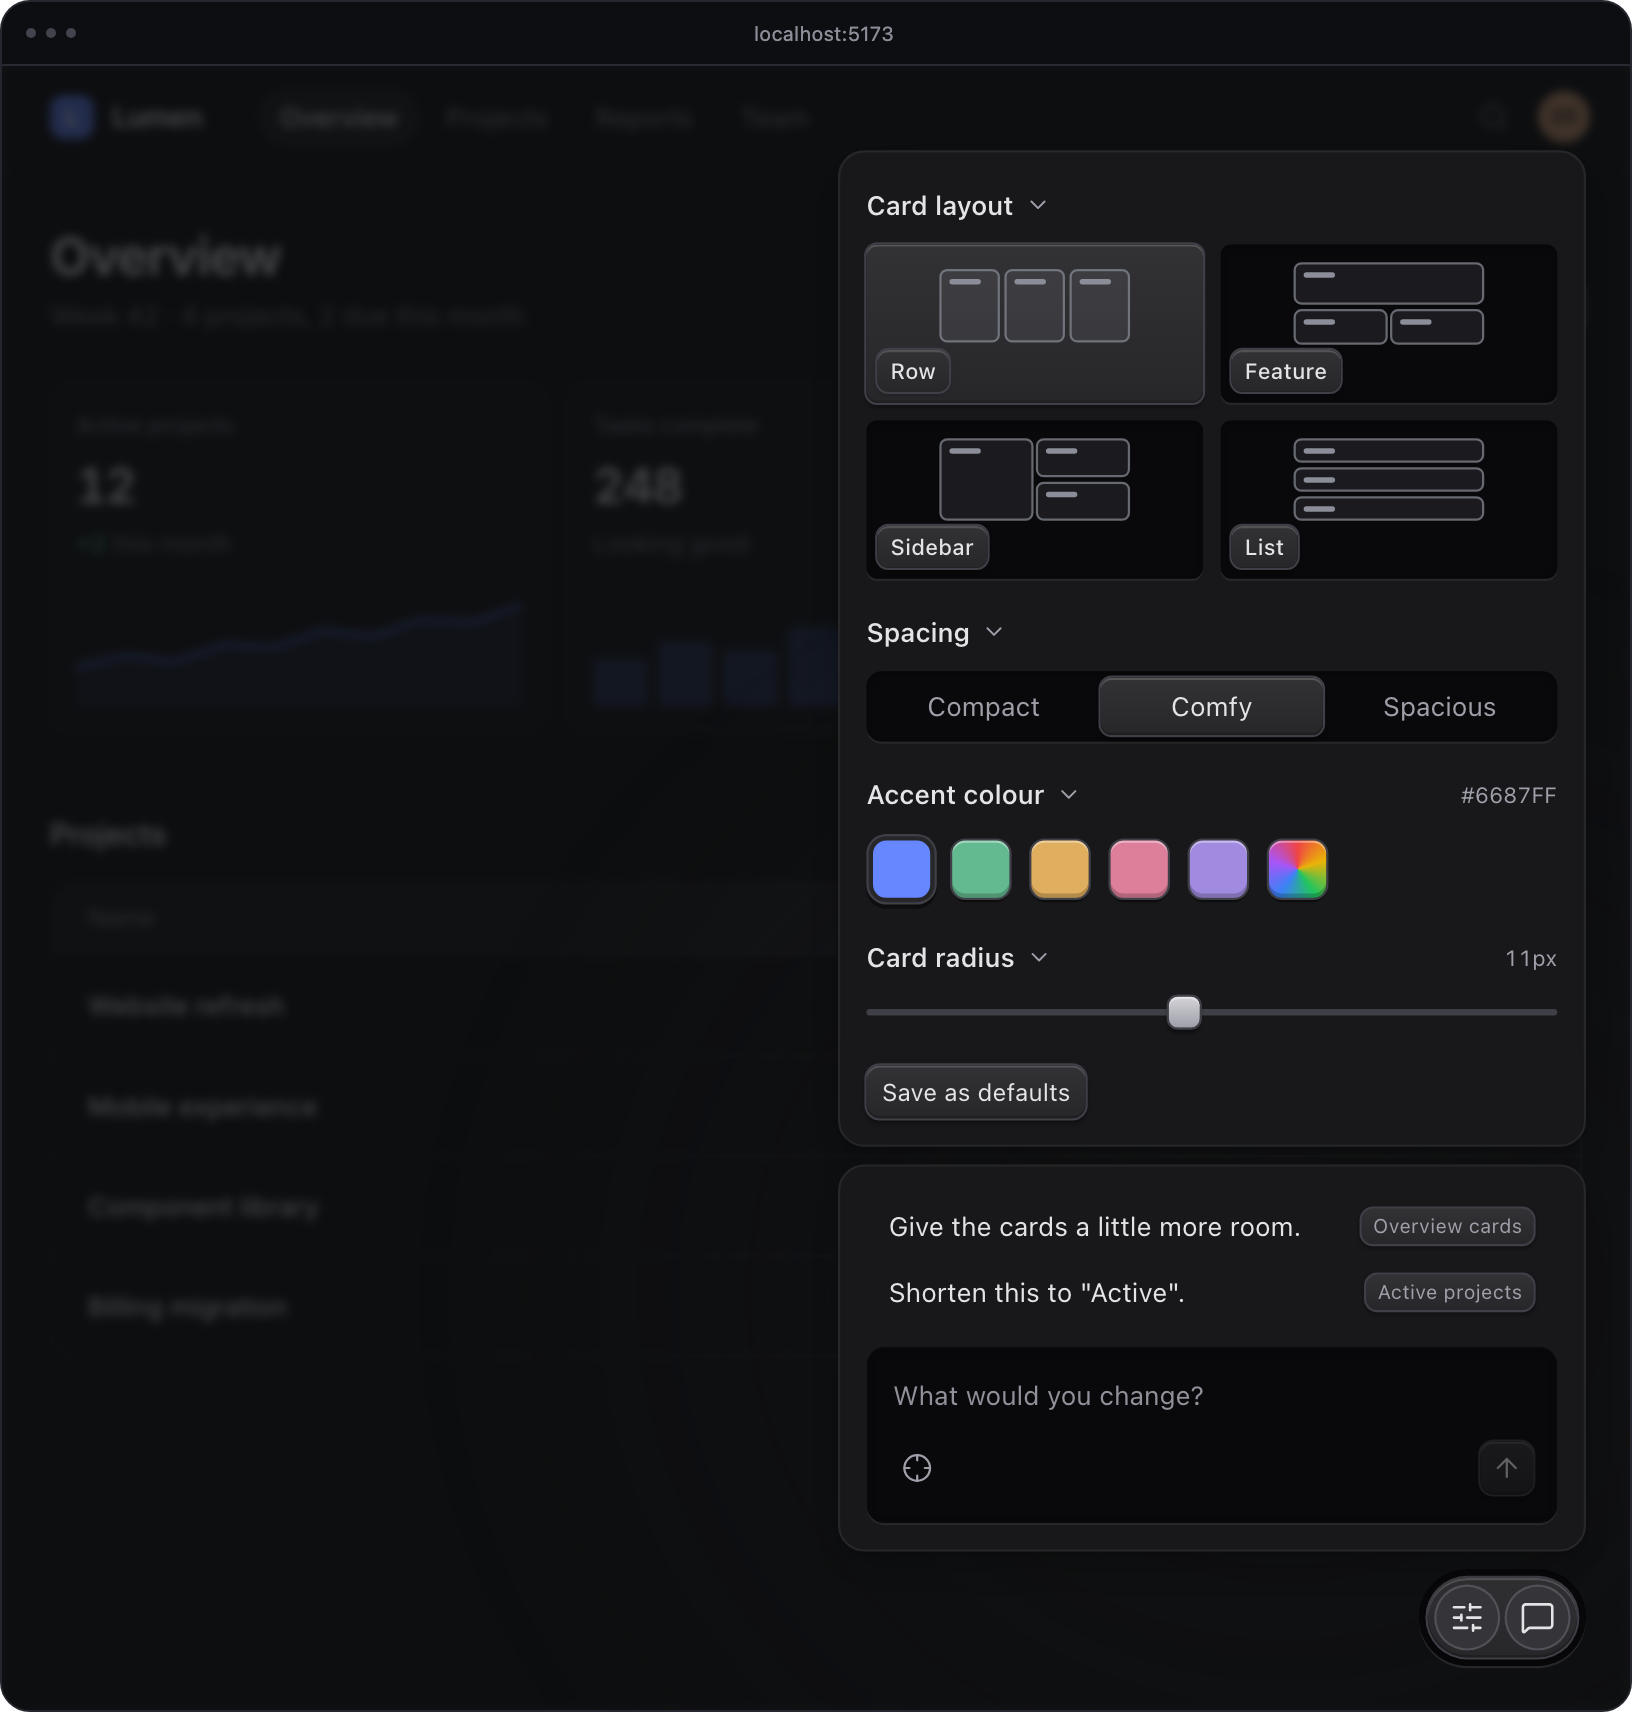
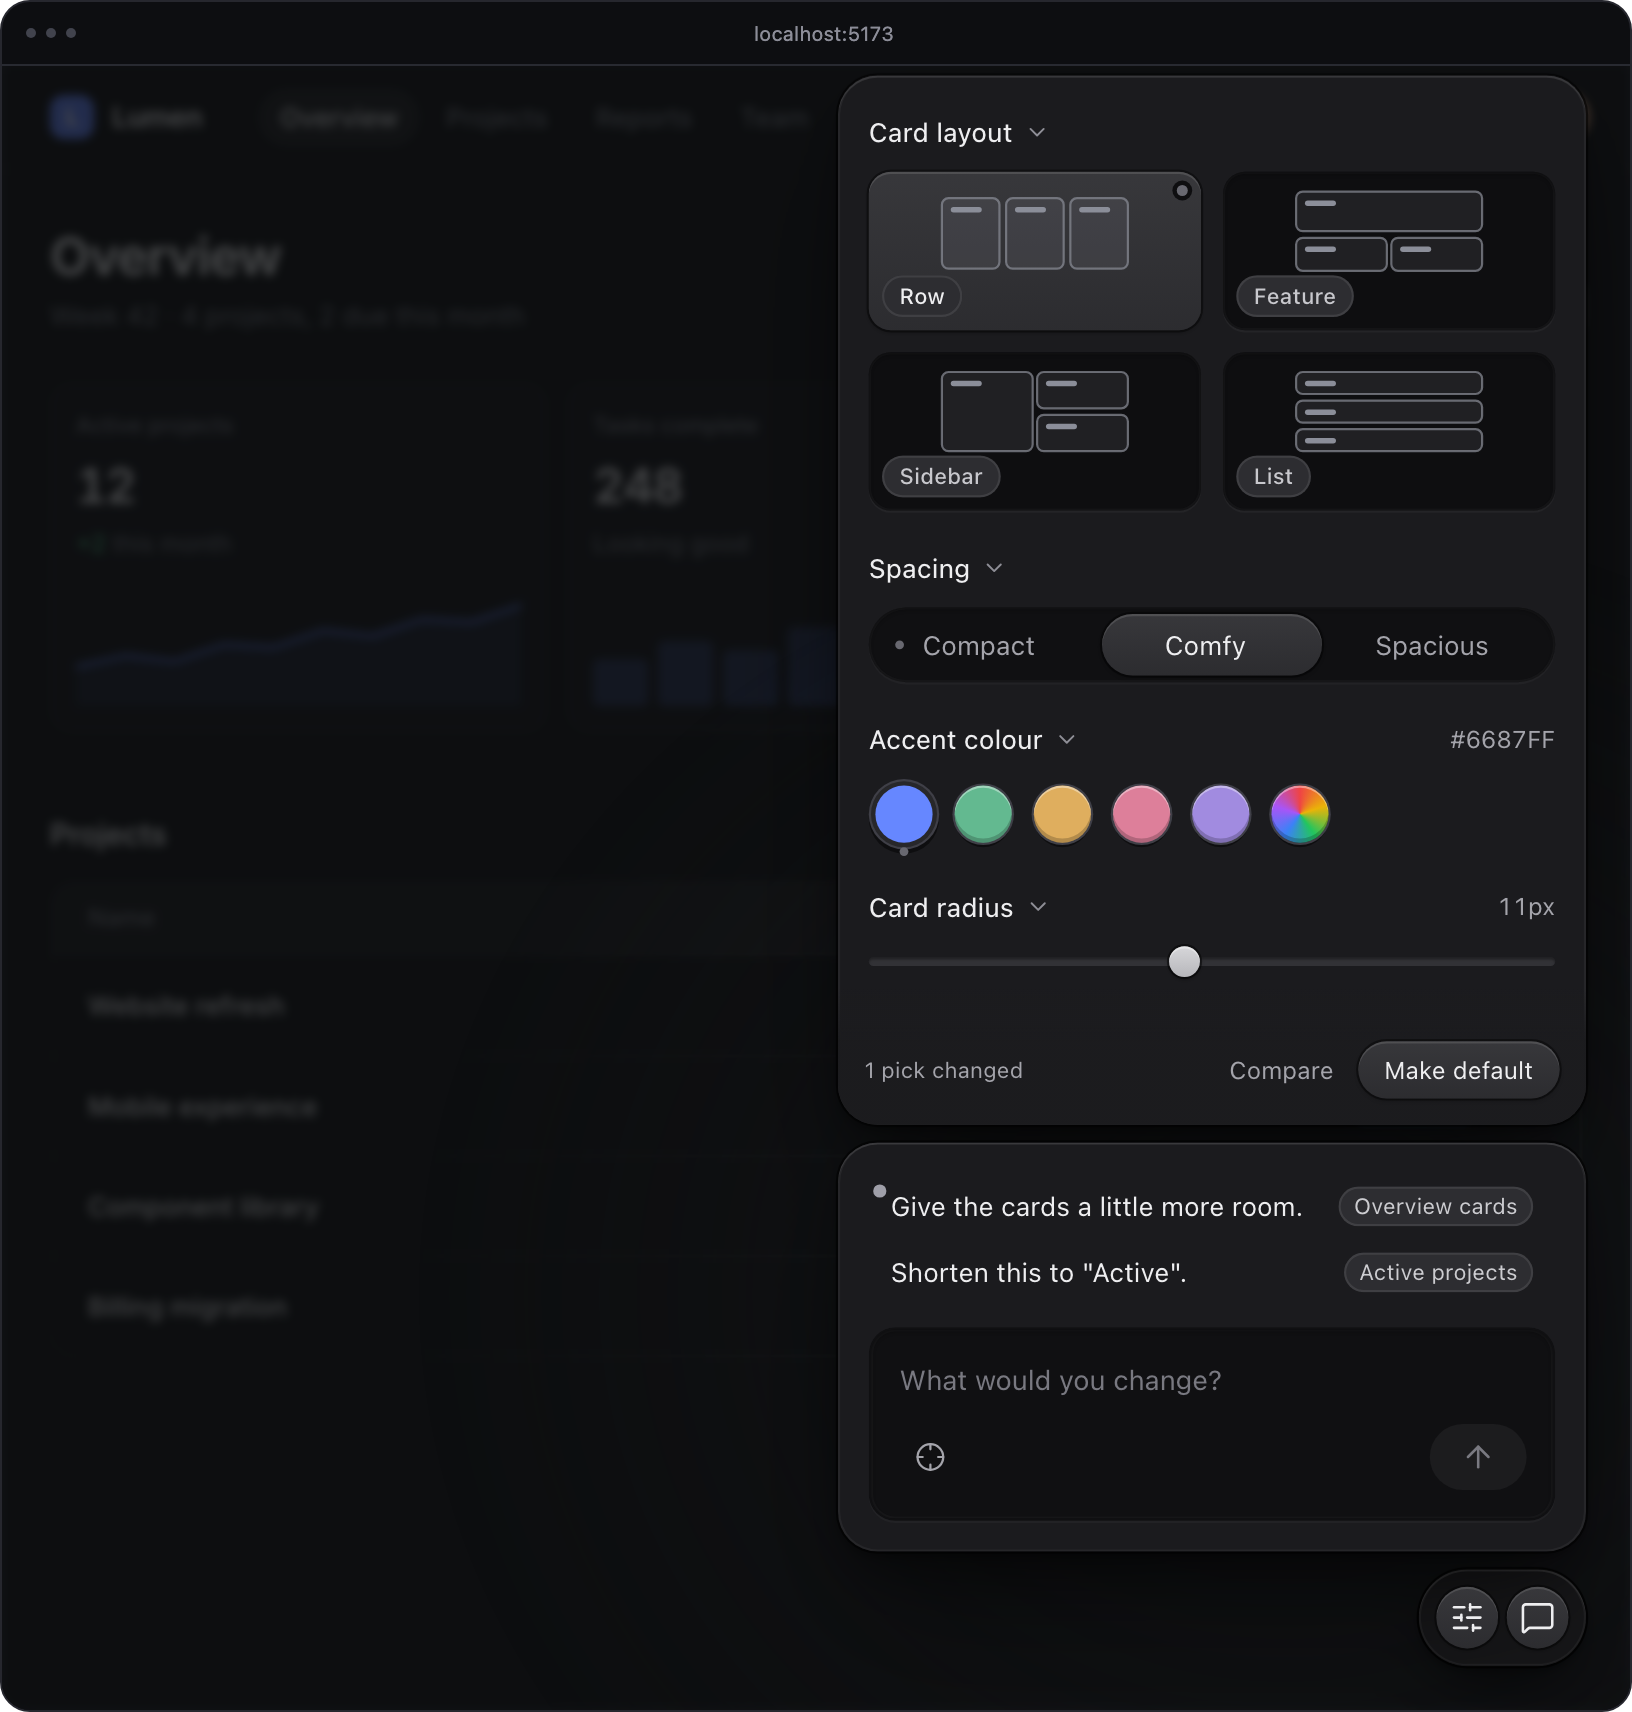
README visuals: re-capture the image and loop on the current design
The scripted scenes had drifted from the panel: the rail buttons' labels
now carry counts, Feedback opens in select mode by itself, the accent
colour sits below the fold in its own section, and the Sidebar layout
puts the second card under the panel.

diff --git a/examples/demo/demo.tsx b/examples/demo/demo.tsx
@@ -435,7 +435,9 @@ function Panel({ theme }: { theme: IsotoneTheme }) {
     if (screenshot) {
       const style = document.createElement('style');
       // Select mode draws fixed outlines and a hint, which a scaled root would displace.
-      style.textContent = `${scene === 'pin' ? '' : '.isotone-root { transform: scale(1.1); transform-origin: bottom right; right: 22px; bottom: 22px; }'} .isotone-textarea { caret-color: transparent; }`;
+      // The defaults bar floats over the last selector until the list is scrolled; the still image shows the
+      // list as it sits when scrolled clear of the bar.
+      style.textContent = `${scene === 'pin' ? '' : '.isotone-root { transform: scale(1.1); transform-origin: bottom right; right: 22px; bottom: 22px; }'} .isotone-textarea { caret-color: transparent; } .isotone-vars[data-saving='true'] > .isotone-vars-body { padding-bottom: var(--iso-save-bar-h); }`;
       shadow.append(style);
     }
     const target = document.createElement('div');
@@ -475,8 +477,8 @@ function Panel({ theme }: { theme: IsotoneTheme }) {
       window.dispatchEvent(new KeyboardEvent('keydown', { key: 'Shift', code: 'ShiftLeft' }));
       launcher.click();
       frame = requestAnimationFrame(() => {
-        const feedback = shadow?.querySelector<HTMLButtonElement>('[aria-label="Feedback"]');
-        const variants = shadow?.querySelector<HTMLButtonElement>('[aria-label="Variants"]');
+        const feedback = shadow?.querySelector<HTMLButtonElement>('.isotone-rail-button[aria-label^="Feedback"]');
+        const variants = shadow?.querySelector<HTMLButtonElement>('.isotone-rail-button[aria-label^="Variants"]');
         if (feedback?.getAttribute('aria-expanded') !== 'true') feedback?.click();
         const wantVariants = scene === 'both';
         if ((variants?.getAttribute('aria-expanded') === 'true') !== wantVariants) variants?.click();
@@ -495,7 +497,9 @@ function Panel({ theme }: { theme: IsotoneTheme }) {
 
 /** Select mode mid-flow: one card pinned and a note being typed. */
 function pinScene(shadow: ShadowRoot | null | undefined) {
-  shadow?.querySelector<HTMLButtonElement>('[aria-label="Select elements"]')?.click();
+  // Opening Feedback starts select mode by itself; pressing the button again would end it.
+  if (shadow?.querySelector<HTMLElement>('.isotone-root')?.dataset.selecting !== 'true')
+    shadow?.querySelector<HTMLButtonElement>('[aria-label="Select elements"]')?.click();
   const first = document.querySelector<HTMLElement>('#overview-cards article');
   // Give select mode a moment to attach its listeners before the scripted pointer acts.
   setTimeout(() => {
